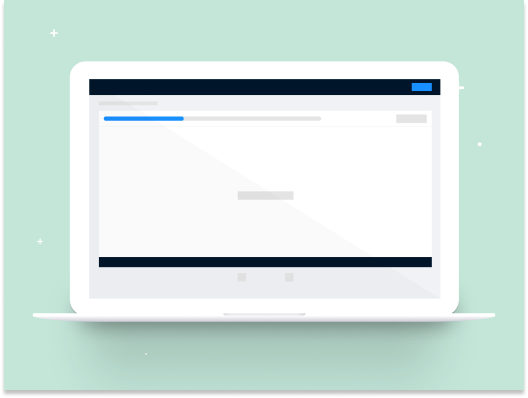
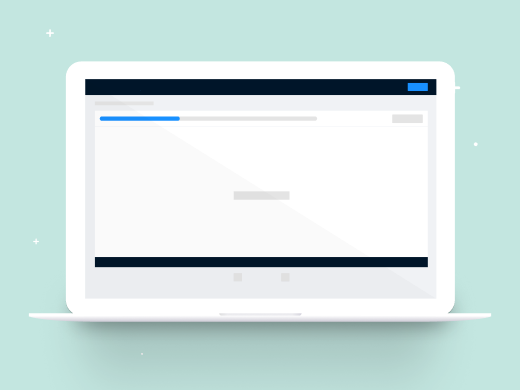
css updates

diff --git a/src/styles/work.css b/src/styles/work.css
@@ -17,11 +17,6 @@
   width: 50%;
 }
 
-.work-post-image {
-  max-width: 52rem;
-  width: 50%;
-}
-
 .work-post-left .work-post-image {
   margin-right: 8rem;
 }
@@ -30,17 +25,16 @@
   margin-left: 8rem;
 }
 
-.work-post-image img {
-  width: 100%;
-  height: auto;
-  border-radius: 8px 8px 12px 12px;
+.work-post-image {
+  max-width: 52rem;
+  width: 50%;
+  border-radius: 4px;
 }
 
 .work-post-content {
   display: flex;
   justify-content: center;
   flex-direction: column;
-  margin-bottom: 4rem;
 }
 
 .work-post:not(:last-of-type) {

diff --git a/src/components/work-post.js b/src/components/work-post.js
@@ -17,9 +17,7 @@ export default function WorkPost({
   };
   const renderImage = () => {
     return (
-      <div className="work-post-image">
-        <img src={image} alt="app1 mock visual" />
-      </div>
+      <img className="work-post-image" src={image} alt="app1 mock visual" />
     );
   };
   return (
